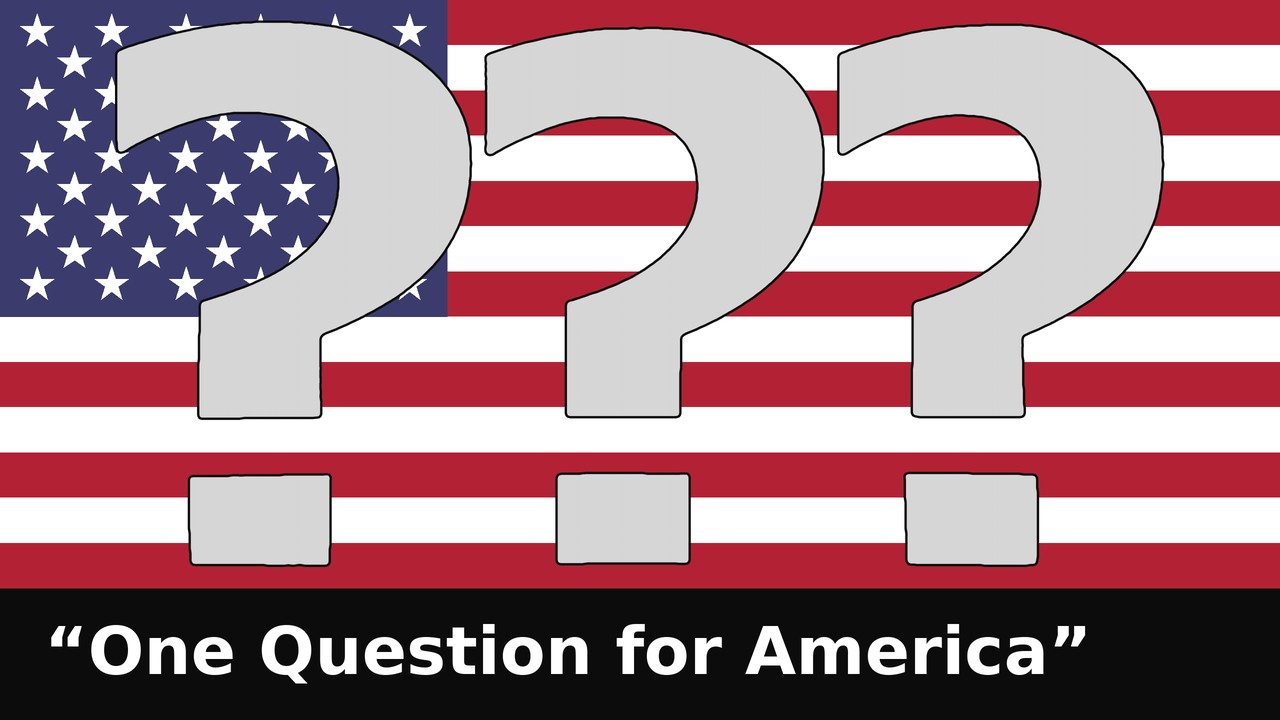
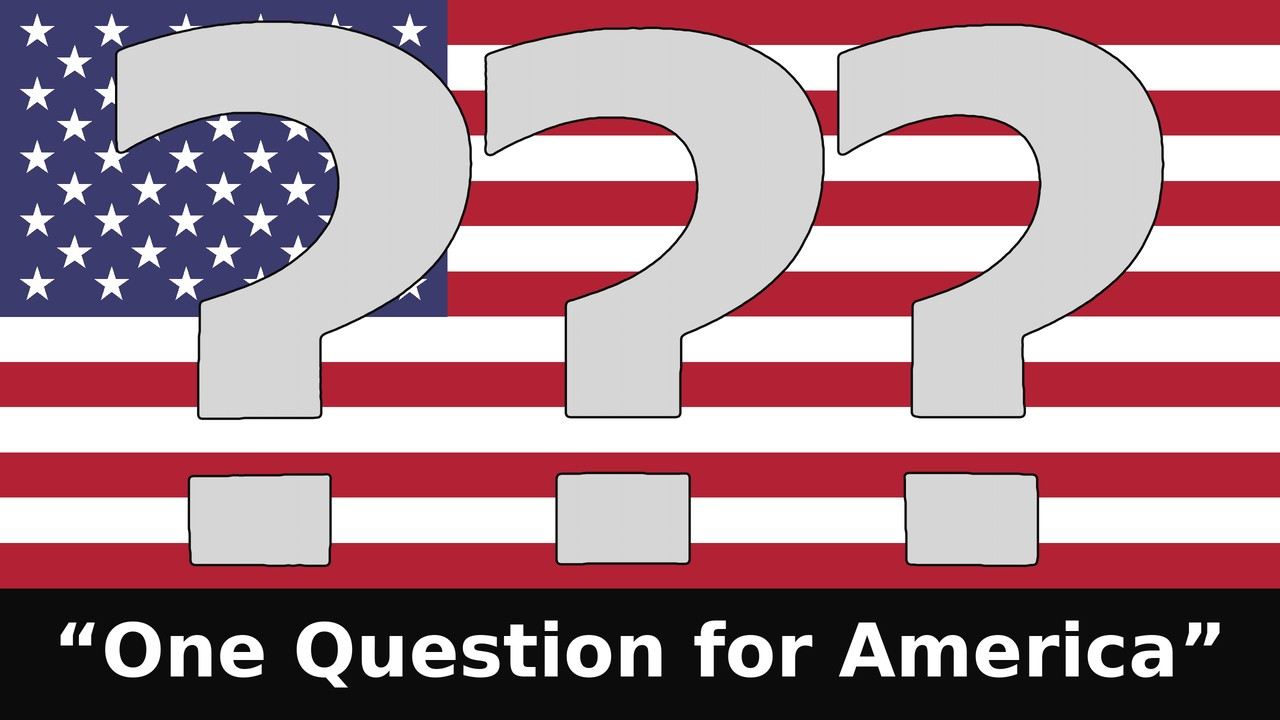
America hero: poster on top, title + copy centered below; centered thumbnail title

Changed region(s): [[0.0312, 0.8556, 0.9688, 0.9472]]

diff --git a/components/america/america.css b/components/america/america.css
@@ -38,14 +38,15 @@
 .oqa-top a:hover { color: #fff; }
 
 /* ---- hero ---- */
-.oqa-hero { display: grid; grid-template-columns: minmax(0, 1.25fr) minmax(0, 1fr); gap: 44px; align-items: center;
+.oqa-hero { display: flex; flex-direction: column; align-items: center; gap: 40px; text-align: center;
   padding: 18px 28px 70px; max-width: 1320px; margin: 0 auto; }
-.oqa-poster img { display: block; width: 100%; max-height: 82vh; object-fit: contain; }
+.oqa-poster { width: min(100%, 760px); }
+.oqa-poster img { display: block; width: 100%; max-height: 82vh; object-fit: contain; margin: 0 auto; }
 .oqa-hero h1 { margin: 0 0 18px; font-weight: 800; font-size: clamp(38px, 5.2vw, 76px); line-height: 1; letter-spacing: -.02em; }
 .oqa-hero h1 span { display: inline-block; background: #fff; color: #000; padding: .04em .16em .1em; margin: 0 0 .12em; }
 .oqa-credit { margin: 0 0 22px; font-size: 19px; color: #d9d9d9; }
-.oqa-log { margin: 0 0 30px; font-size: 21px; line-height: 1.45; max-width: 30ch; }
-.oqa-actions { display: flex; flex-wrap: wrap; gap: 12px; margin: 0 0 16px; }
+.oqa-log { margin: 0 auto 30px; font-size: 21px; line-height: 1.45; max-width: 30ch; }
+.oqa-actions { display: flex; flex-wrap: wrap; justify-content: center; gap: 12px; margin: 0 0 16px; }
 .oqa-btn { display: inline-block; background: #fff; color: #000 !important; font-weight: 800; font-size: 17px;
   padding: 15px 22px; border-radius: 3px; text-decoration: none; border: 2px solid #fff; transition: transform .12s; }
 .oqa-btn.ghost { background: transparent; color: #fff !important; }
@@ -146,7 +147,7 @@
   .oqa-rail-here { width: 54px; font-size: 5px; }
   .oqa-rail-end { font-size: 7px; }
         .oqa-top, .oqa-hero, .oqa-trip, .oqa-three, .oqa-film, .oqa-credits { padding-left: 14px; padding-right: 14px; }
-  .oqa-hero { grid-template-columns: 1fr; gap: 26px; }
+  .oqa-hero { gap: 26px; }
   .oqa-three ol { grid-template-columns: 1fr; gap: 24px; }
   .oqa-map { --cs: 2.4; }
   .oqa-pin .hit, .oqa-pin .dot { transform: scale(1.9); }
